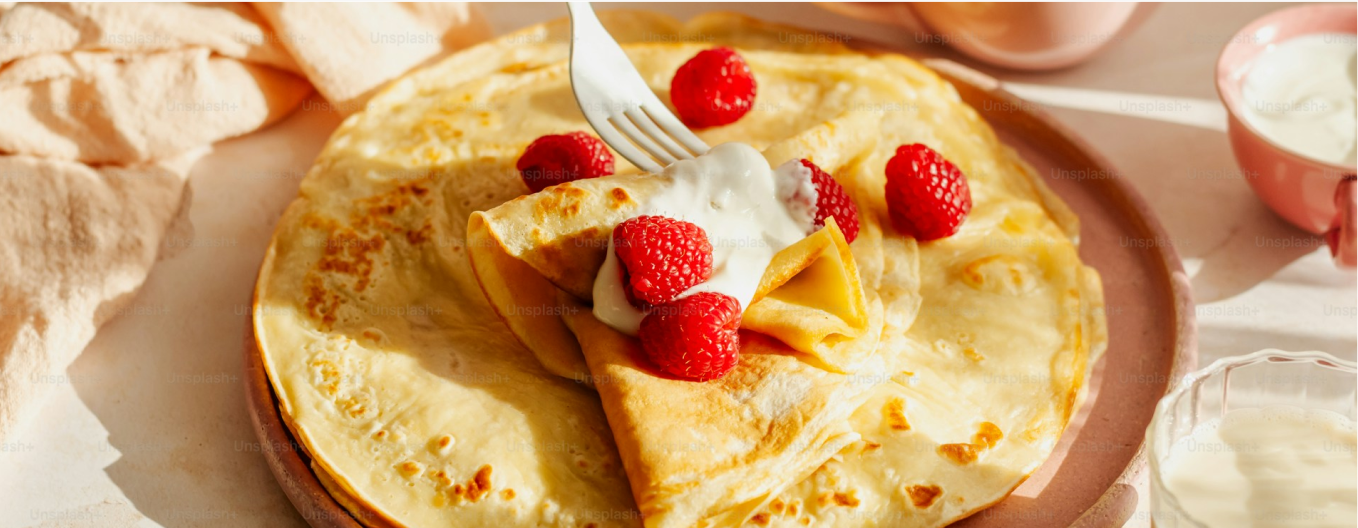
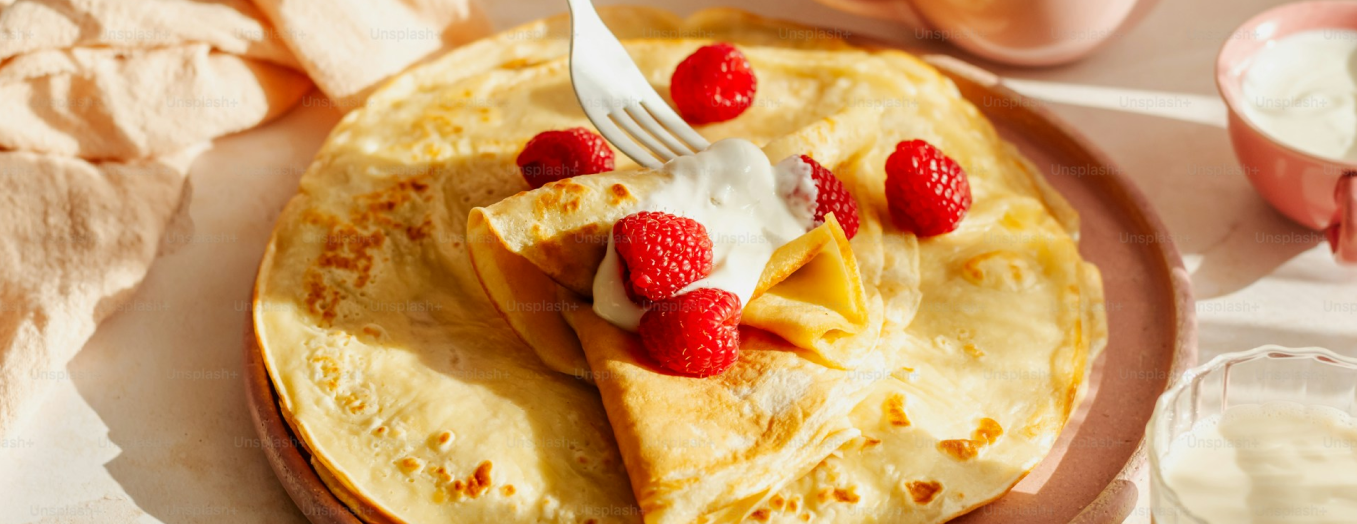
Added CSS to make the website responsive, updated background-color and text-color for h1-tag, adjusted padding.

diff --git a/index.html b/index.html
@@ -8,44 +8,44 @@
     <title>Recept på pannkakor</title>
     <link rel="icon" type="image/x-icon" href="/images/favicon.ico">
     <!-- Add favicon here -->
-    <link rel="preconnect" href="https://fonts.googleapis.com" />
+    <!--<link rel="preconnect" href="https://fonts.googleapis.com" />
     <link rel="preconnect" href="https://fonts.gstatic.com" crossorigin />
     <link href="https://fonts.googleapis.com/css2?family=Roboto:ital,wght@0,100..900;1,100..900&display=swap"
-          rel="stylesheet" />
+          rel="stylesheet" />-->
 </head>
 <body>
-        <img src="images/banner.png" style="margin-left:0px;padding-left:0px;text-align:left;" alt="Pancakes">
-    <div id="content">
-        <h1 style="color:palevioletred">Enkelt recept på pannkakor</h1>
-        <p style="background-color:lightgray;padding:10px;">Gör traditionella tunna pannkakor med detta enkla och goda pannkaksrecept.</p>
-        <h3>Ingredienser</h3>
-        <p>För 4 portioner</p>
-        <div style="">
-            <ul style="text-align:left;">
-                <li>2 ½ dl vetemjöl</li>
-                <li>1/2 tsk salt</li>
-                <li>6 dl mjölk</li>
-                <li>3 ägg</li>
-                <li>smör (till stekning)</li>
-                <li>sylt, bär eller frukt till servering</li>
-            </ul>
+        <img src="images/banner.png" style="margin-left: 0px; padding-left: 0px; text-align: left; width: 100%; height: auto; " alt="Pancakes">
+        <div id="content">
+            <h1 style="color: #b04242;">Enkelt recept på pannkakor</h1> <!--#b95555--> <!--#b95151--> <!--#be5353--> <!--#c85656--> <!--#B9375D-->
+            <p style="background-color: lightgray; padding: 10px; ">Gör traditionella tunna pannkakor med detta enkla och goda pannkaksrecept.</p>
+            <h2>Ingredienser</h2>
+            <p>För 4 portioner</p>
+            <div style="">
+                <ul style="text-align:left;">
+                    <li>2 ½ dl vetemjöl</li>
+                    <li>1/2 tsk salt</li>
+                    <li>6 dl mjölk</li>
+                    <li>3 ägg</li>
+                    <li>smör (till stekning)</li>
+                    <li>sylt, bär eller frukt till servering</li>
+                </ul>
+            </div>
+            <h2>Så här gör du</h2>
+            <ol>
+                <li>Blanda mjöl och salt i en bunke.</li>
+                <li>Vispa i hälften av mjölken och vispa till en slät smet.</li>
+                <li>Vispa i resten av mjölken och äggen.</li>
+                <li>Låt smeten vila ca 10 minuter.</li>
+                <li>Stek tunna pannkakor i lite smör, för varje pannkaka, i en stek- eller pannkakspanna.</li>
+                <li>Servera med sylt, bär eller frukt.</li>
+            </ol>
+            <div>
+                <h2>Serveringsförslag</h2>
+                <img style="width: 100%; height: auto; max-width: 550px; padding-top: 10px; float: left; padding-right: 20px; " src="images/serving-suggestion1.png" alt="serving-suggestion" />
+                <img style="width: 100%; height: auto; max-width:550px;padding-top:10px;" src="images/serving-suggestion2.png" alt="serving-suggestion2" />
+                <!--<img style="float:left; max-width:400px;" src="images/serving-suggestion1.png" alt="serving-suggestion" />
+        <img style="float: right; max-width:400px;" src="images/serving-suggestion2.png" alt="serving-suggestion2" />-->
+            </div>
         </div>
-        <h4>Så här gör du</h4>
-        <ol>
-            <li>Blanda mjöl och salt i en bunke.</li>
-            <li>Vispa i hälften av mjölken och vispa till en slät smet.</li>
-            <li>Vispa i resten av mjölken och äggen.</li>
-            <li>Låt smeten vila ca 10 minuter.</li>
-            <li>Stek tunna pannkakor i lite smör, för varje pannkaka, i en stek- eller pannkakspanna.</li>
-            <li>Servera med sylt, bär eller frukt.</li>
-        </ol>
-        <div>
-            <h4>Serveringsförslag</h4>
-            <img style="max-width:550px;float:left;padding-right:20px;" src="images/serving-suggestion1.png" alt="serving-suggestion" />
-            <img style="max-width:550px;" src="images/serving-suggestion2.png" alt="serving-suggestion2" />
-            <!--<img style="float:left; max-width:400px;" src="images/serving-suggestion1.png" alt="serving-suggestion" />
-    <img style="float: right; max-width:400px;" src="images/serving-suggestion2.png" alt="serving-suggestion2" />-->
-        </div>
-    </div>
 </body>
 </html>

diff --git a/styles/style.css b/styles/style.css
@@ -1,9 +1,10 @@
 html {
-    background-color: hsla(0, 60%, 75%, 0.9) /*darksalmon;*/
+    background-color: #DC9B9B; /*hsla(0, 60%, 75%, 0.9)*/ /*darksalmon;*/
 }
 
 body {
-    width: 1200px;
+    /*width: 1200px;*/
+    max-width: 1200px;
     /*text-align: center;*/
     margin: 0 auto;
     margin-bottom: 40px;
@@ -12,13 +13,24 @@ body {
 }
 
 #content {
-    padding: 35px 35px 35px 35px;
+    padding-top: 15px;
+    padding-left: 35px;
+    padding-right: 35px;
+    padding-bottom: 35px;
 }
 
-img {
-    display: block;
-    /*margin: 0 auto;*/
-    margin: 0;
-    padding: 0;
-    max-width: 1200px;
+@media ( max-width: 26.25em ) {
+    h1 {
+        font-size: 1.4em;
+    }
 }
+
+/*img {
+    display: block;
+    margin: 0 auto;
+    margin: 0;
+    padding: 0;*/
+    /*max-width: 1200px;*/
+    /*width: 100%;
+    height: auto;
+}*/
